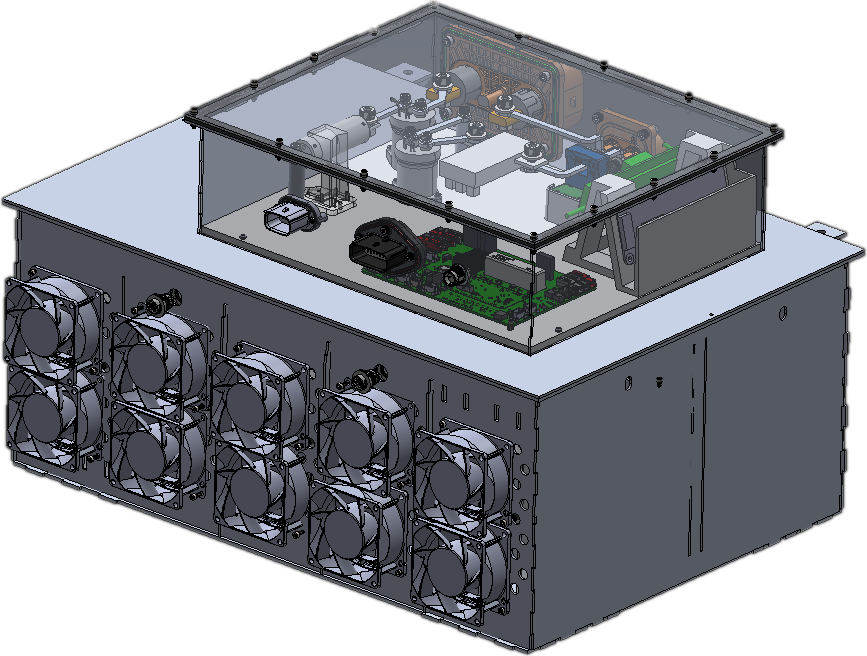
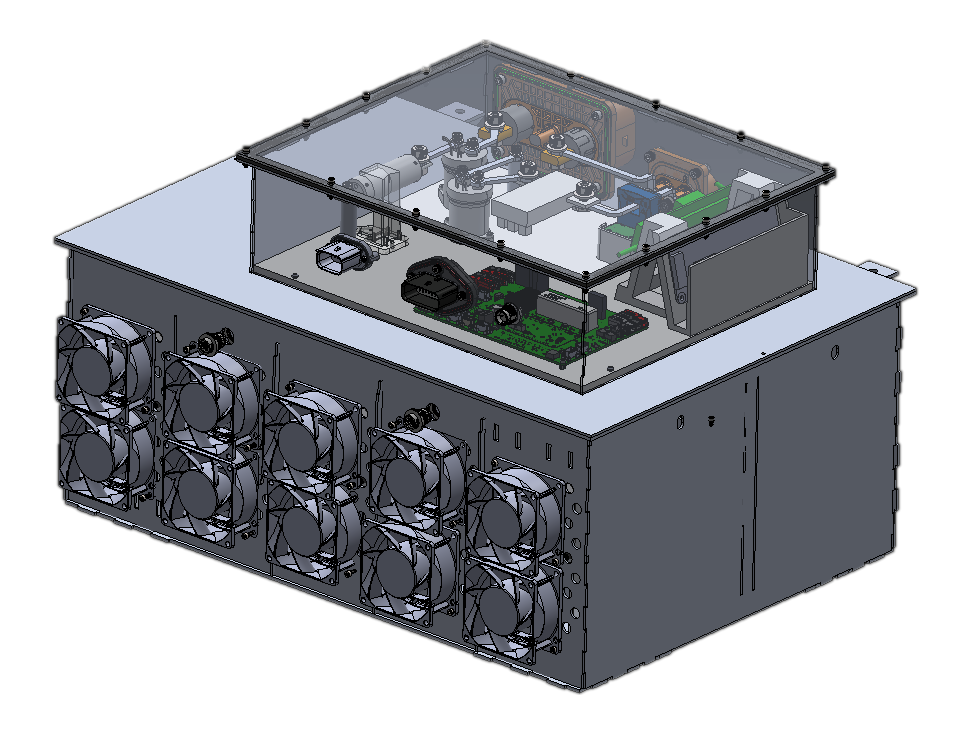
SN5 HV Attic: reviewed rows, transparent CAD, no repeated gallery figures
- Rows like the other case studies; Packaging and Materials and Sealing
  sit side by side with their figures below. Figures on this short page
  stay compact.
- The overview states the measured 18% result; isolation and sealing
  stay requirements, since testing is still listed as pending.
- CAD top view and accumulator render cut out to transparency; the
  gallery and card cover sit on the page colour with a margin.
- The gallery keeps the cover, car, and interior photo; it no longer
  repeats body figures or the two low-resolution views.
- docs/project-page-review.md: the review checklist every page now
  goes through, including an independent reviewer pass.

diff --git a/projects.html b/projects.html
@@ -495,11 +495,11 @@
     .project-card[data-id="formula-electric-attic"] .project-image img {
       object-fit: contain;
       object-position: center center;
-      transform: scale(0.9);
+      transform: scale(1.0);
     }
 
     .project-card[data-id="formula-electric-attic"]:hover .project-image img {
-      transform: scale(0.93);
+      transform: scale(1.03);
     }
 
     /* Pear Volunteering - zoom in from center */
@@ -1234,7 +1234,7 @@
       text-decoration-thickness: 2px;
     }
 
-    .detail-content[data-project-id="formula-electric"] .detail-description {
+    .detail-content:is([data-project-id="formula-electric"], [data-project-id="formula-electric-attic"]) .detail-description {
       font-family: var(--font-latex);
       font-size: 16px;
       line-height: 1.72;
@@ -1242,14 +1242,26 @@
       display: block;
     }
 
-    .detail-content[data-project-id="formula-electric"] .latex-section {
+    .detail-content:is([data-project-id="formula-electric"], [data-project-id="formula-electric-attic"]) .latex-section {
       min-width: 0;
       margin: 0 0 48px;
       break-inside: auto;
     }
 
-    .detail-content[data-project-id="formula-electric"] .latex-section > strong {
+    .detail-content:is([data-project-id="formula-electric"], [data-project-id="formula-electric-attic"]) .latex-section > strong {
       margin-top: 0;
+    }
+
+    /* SN5 sections are short, so their figures stay compact beside the text; the lightbox shows
+       them full size. */
+    .detail-content[data-project-id="formula-electric-attic"] .detail-description :is(.reading-evidence, .reading-prose, .reading-supplement) .project-feature-figure img {
+      max-height: 300px !important;
+      width: auto;
+      max-width: 100% !important;
+    }
+
+    .detail-content[data-project-id="formula-electric-attic"] :is(#sn5-overview, #sn5-manufacturing) .project-feature-figure img {
+      max-height: 250px !important;
     }
 
     .detail-content[data-project-id="ns-us-pulse-generator"] .detail-description {
@@ -2440,16 +2452,20 @@
       aspect-ratio: 1416 / 807;
     }
 
-    .detail-content[data-project-id="formula-electric"] :is(.gallery-main, #galleryMediaContainer, #galleryMediaContainer picture, #galleryMediaContainer img, .gallery-thumb) {
+    .detail-content:is([data-project-id="formula-electric"], [data-project-id="formula-electric-attic"]) :is(.gallery-main, #galleryMediaContainer, #galleryMediaContainer picture, #galleryMediaContainer img, .gallery-thumb) {
       background: var(--bg);
       border: 0;
     }
 
-    [data-theme="light"] .detail-content[data-project-id="formula-electric"] :is(#galleryMediaContainer img, .gallery-thumb img) {
+    [data-theme="light"] .detail-content:is([data-project-id="formula-electric"], [data-project-id="formula-electric-attic"]) :is(#galleryMediaContainer img, .gallery-thumb img) {
       mix-blend-mode: multiply;
     }
 
-    [data-theme="light"] .detail-content[data-project-id="formula-electric"] :is(.gallery-main, .gallery-media-frame, .gallery-thumb) {
+    .detail-content:is([data-project-id="formula-electric"], [data-project-id="formula-electric-attic"]) :is(#galleryMediaContainer picture, #galleryMediaContainer img, .gallery-thumb img) {
+      background: transparent;
+    }
+
+    [data-theme="light"] .detail-content:is([data-project-id="formula-electric"], [data-project-id="formula-electric-attic"]) :is(.gallery-main, .gallery-media-frame, .gallery-thumb) {
       isolation: isolate;
     }
 
@@ -2484,7 +2500,7 @@
 
     /* White-background technical exports (CAD, scans, plots, solver screenshots) take on the
        cream page colour. Multiply keeps every dark line and colour; photographs are left alone. */
-    [data-theme="light"] .detail-content:is([data-project-id="wolfrom-actuator"], [data-project-id="formula-electric"]) .detail-description img:not(.wolfrom-build-board img, #galleryMediaContainer img, .gallery-thumb img, .wx-poster),
+    [data-theme="light"] .detail-content:is([data-project-id="wolfrom-actuator"], [data-project-id="formula-electric"], [data-project-id="formula-electric-attic"]) .detail-description img:not(.wolfrom-build-board img, #galleryMediaContainer img, .gallery-thumb img, .wx-poster),
     [data-theme="light"] .detail-content[data-project-id="ns-us-pulse-generator"] .detail-description img:is([src$=".png"], [src$=".svg"]):not(#galleryMediaContainer img, .gallery-thumb img, .board-layer-viewer img) {
       background: transparent;
       mix-blend-mode: multiply;
@@ -4094,42 +4110,42 @@ const formulaElectricCoolingDescription = `
     </section>`;
 
 const formulaElectricAtticDescription = `
+  <section class="latex-section" id="sn5-overview">
   <strong>Overview</strong><br><br>
   For SN5, I designed and manufactured the attic casing for Formula Electric at Berkeley's <b>588 V accumulator</b>. The attic holds the contactors, current sensor, busbars, connectors, and low-voltage controls above the cells.<br><br>
-
-  It had to survive <b>40g lateral and longitudinal loads</b> and <b>20g vertically</b>, keep the HV system isolated, pass water-ingress checks, and stay easy to inspect and service.<br><br>
-
+  The revised casing came out <b>18% lighter</b>. It had to survive <b>40g lateral and longitudinal loads</b> and <b>20g vertically</b>, keep the HV system isolated, pass water-ingress checks, and stay easy to inspect and service.
   <figure class="project-feature-figure">
-    <img src="/assets/formula-cooling-attic.png" alt="Top view of the Formula Electric accumulator attic showing high-voltage electronics and service clearances" width="512" height="492" loading="lazy" decoding="async">
-    <figcaption>SN5 attic layout with the HV hardware packed above the accumulator.</figcaption>
+    <img src="/assets/formula-cooling-attic-clear.png" alt="Top view of the Formula Electric accumulator attic showing high-voltage electronics and service clearances" width="492" height="506" loading="lazy" decoding="async">
+    <figcaption>SN5 attic layout: contactors, busbars, current sensor, and controls packed above the accumulator with room to reach each one.</figcaption>
   </figure>
+  </section>
 
+  <section class="latex-section" id="sn5-packaging">
   <strong>Packaging the HV Hardware</strong><br><br>
-  I built the enclosure around the real contactor, current-sensor, busbar, connector, and harness geometry. I checked copper clearance, wire bends, tool access, inspection sightlines, and the order the panels could come apart.<br><br>
-
-  <div class="project-inline-grid">
-    <figure>
-      <img src="/assets/formula-e-hv-hardware.jpg" alt="Formula Electric high-voltage contactors, busbars, current sensing, connectors, and low-voltage harnessing" loading="lazy" decoding="async">
-      <figcaption>The actual contactors, busbars, current sensor, connectors, and harnessing.</figcaption>
-    </figure>
-    <figure>
-      <img src="/assets/formula-cooling-accumulator-render.png" alt="Formula Electric accumulator and attic enclosure render" width="760" height="602" loading="lazy" decoding="async">
-      <figcaption>The complete accumulator with the attic above the cell enclosure.</figcaption>
-    </figure>
+  I built the enclosure around the real contactor, current-sensor, busbar, connector, and harness geometry. I checked copper clearance, wire bends, tool access, inspection sightlines, and the order the panels could come apart.
+  <div class="reading-aside">
+    <strong id="sn5-materials">Materials and Sealing</strong>
+    I used 6061-T6 aluminum because it fit our welding, heat-treatment, and shop constraints. The floor is <b>6 mm polycarbonate</b> for electrical isolation and visual inspection. A <b>3 mm neoprene gasket</b> seals the perimeter, and Nomex 410 lines surfaces near the HV hardware.
   </div>
+  <figure class="project-feature-figure reading-below">
+    <img src="/assets/formula-e-hv-hardware.jpg" alt="Formula Electric high-voltage contactors, busbars, current sensing, connectors, and low-voltage harnessing" loading="lazy" decoding="async">
+    <figcaption>The actual contactors, busbars, current sensor, connectors, and harnessing the enclosure was built around.</figcaption>
+  </figure>
+  <figure class="project-feature-figure reading-below">
+    <img src="/assets/formula-cooling-accumulator-render-clear.png" alt="Formula Electric accumulator and attic enclosure render" width="627" height="540" loading="lazy" decoding="async">
+    <figcaption>The complete accumulator with the attic above the cell enclosure.</figcaption>
+  </figure>
+  </section>
 
-  <strong>Cutting Weight</strong><br><br>
-  The revised casing came out <b>18% lighter</b>. I used 6061-T6 aluminum because it fit our welding, heat-treatment, and shop constraints. The floor is <b>6 mm polycarbonate</b> for electrical isolation and visual inspection. A <b>3 mm neoprene gasket</b> seals the perimeter, and Nomex 410 lines surfaces near the HV hardware.<br><br>
-
+  <section class="latex-section" id="sn5-manufacturing">
   <strong>Manufacturing</strong><br><br>
-  I designed every panel around the processes we actually had: FabLight laser cutting, TIG welding, heat treatment, and waterjet cutting for the polycarbonate and gasket. That meant planning weld access, datums, fastener reach, fit-up, and assembly order in CAD.<br><br>
-
+  I designed every panel around the processes we had: FabLight laser cutting, TIG welding, heat treatment, and waterjet cutting for the polycarbonate and gasket. That meant planning weld access, datums, fastener reach, fit-up, and assembly order in CAD.<br><br>
+  The casing still goes through structural review, dielectric testing, water-ingress checks, and gasket-compression inspection before running in the car.
   <figure class="project-feature-figure">
     <img src="/assets/formula-e-attic-fabrication.jpg" alt="Formula Electric accumulator attic panel clamped during fabrication fit-up" loading="lazy" decoding="async">
     <figcaption>Checking panel fit-up and hardware clearance during fabrication.</figcaption>
   </figure>
-
-  The final casing is lighter, sealed, electrically isolated, and easy for the team to open and inspect. It still goes through structural review, dielectric testing, water-ingress checks, and gasket-compression inspection before running in the car.`;
+  </section>`;
 
     // Projects data
     const projects = [
@@ -4204,13 +4220,6 @@ const formulaElectricAtticDescription = `
         images: [
           '/assets/accumimg-clear.png',
           '/assets/img1.png',
-          '/assets/formula-cooling-attic.png',
-          '/assets/formula-e-hv-hardware.jpg',
-          '/assets/formula-cooling-accumulator-render.png',
-          '/assets/formula-e-attic-fabrication.jpg',
-          '/assets/img2.png',
-          '/assets/img3.png',
-          '/assets/accumsa.png',
           '/assets/formula-e-accumulator-interior.jpg'
         ]
       },
@@ -5088,6 +5097,8 @@ const formulaElectricAtticDescription = `
         initThermalExplorer(descriptionEl);
       } else if (project.id === 'ns-us-pulse-generator') {
         layoutPulseGeneratorSections(descriptionEl);
+      } else if (project.id === 'formula-electric-attic') {
+        layoutCaseStudySections(descriptionEl, { 'sn5-overview': 'figure', 'sn5-packaging': '.reading-aside', 'sn5-manufacturing': 'figure' });
       }
       descriptionEl.querySelectorAll('details.project-disclosure').forEach(disclosure => { disclosure.open = true; });
       // If a reader closes and reopens a disclosure, re-run the column balance for the rows inside it.
@@ -5139,7 +5150,7 @@ const formulaElectricAtticDescription = `
             throwOnError: false
           });
           // Equation fonts change line heights, so measure only once they have loaded.
-          if (project.id === 'formula-electric' || project.id === 'ns-us-pulse-generator') scheduleReadingBalance(document.getElementById('detailDescription'));
+          if (['formula-electric', 'formula-electric-attic', 'ns-us-pulse-generator'].includes(project.id)) scheduleReadingBalance(document.getElementById('detailDescription'));
         } else if (tries < 40) {
           setTimeout(function () { renderMath(tries + 1); }, 100);
         }

diff --git a/docs/project-page-review.md b/docs/project-page-review.md
@@ -1,0 +1,63 @@
+# Project page review
+
+Every project page goes through these passes before it is pushed. A page is done only when an
+independent reviewer has checked it against this list and every finding is either fixed or
+recorded below as a question for Aadit. CLAUDE-HANDOFF.md sets the visual direction; this file
+sets the checks.
+
+## 1. Read everything first
+
+- Read the full description, the project data (title, date, category, excerpt, links, tags,
+  skills, gallery), and look at every image at full size, including the card cover.
+- Note what the project actually is, what Aadit personally did, and what the evidence shows.
+  Nothing gets rewritten until this is clear.
+
+## 2. Truth and ownership
+
+- Every number, claim, and result stays as written unless Aadit corrects it. Keep the
+  measured / predicted / target / planned distinctions.
+- Ownership is stated accurately: solo work says "I", team work says what Aadit did within the
+  team. Never inflate a role, and never write "my work" sections for solo projects.
+- Nothing is invented: no outcomes, awards, metrics, or quotes that the source does not state.
+  Anything unclear becomes a question for Aadit, never a guess.
+
+## 3. Order and structure
+
+- The page opens with what the project is and the result or status, then the problem, then the
+  work, then what was learned or what comes next.
+- Each section has one job. Facts appear once, in the section where they matter most.
+- Headings say what the section is about, are in plain words, and match the Contents.
+- Short projects stay short. A 250-word page does not need six sections.
+
+## 4. Writing (Aadit's voice)
+
+- First person, plain and specific, cause and effect visible ("so", "since", "because").
+- No contractions, no em or en dashes (also none in code comments or tests), and none of
+  "not X but Y", "not just", "rather than", "instead of".
+- No filler, hype, or marketing language. Every sentence carries information.
+- Captions state the takeaway, not just what the image is.
+
+## 5. Images
+
+- Every image is relevant, correctly captioned, and appears once on the page (the gallery can
+  repeat a body figure only if it is the cover).
+- CAD renders and white-background exports sit on the page colour: no grey boxes, window
+  chrome, toolbars, gradient viewports, stray edge lines, or clipped content.
+- Photos stay photos; physical builds use real photos as covers.
+- Crops keep the full subject; the card cover is visually centred and nothing is cut off.
+- WebP copies are regenerated whenever a PNG or JPEG is changed.
+
+## 6. Layout
+
+- Check at 1440 px and at phone width. In each row, text and evidence end within about 120 px
+  of each other; no large empty columns, no figure piles, no squashed or stretched images.
+- No dropdowns. Content is either worth showing or cut.
+- Tables are readable at their width; wide tables span the row.
+
+## 7. Verify and ship
+
+- `node scripts/site-content.test.mjs` and `npm run build` pass; tests that pin old content are
+  updated only for intentional changes.
+- Check the page in the browser: renders, no console errors, Contents links work, images load.
+- An independent reviewer (fresh agent) reads the finished page against this file and reports
+  findings; fix them, then commit one page per commit and push.
